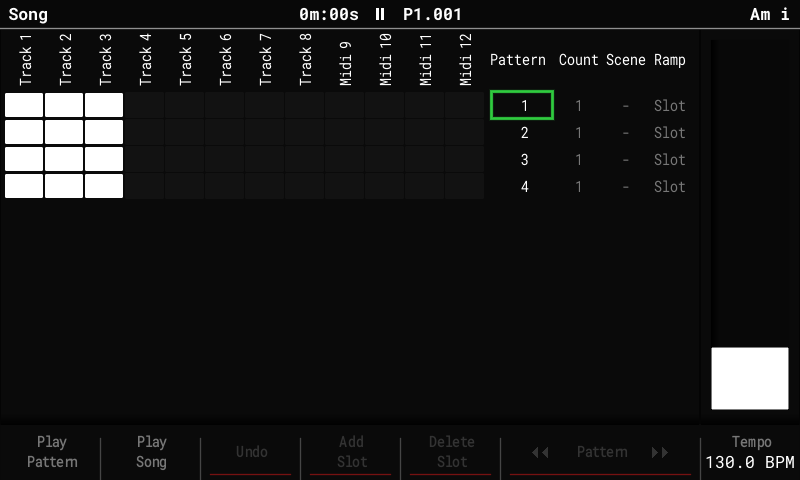
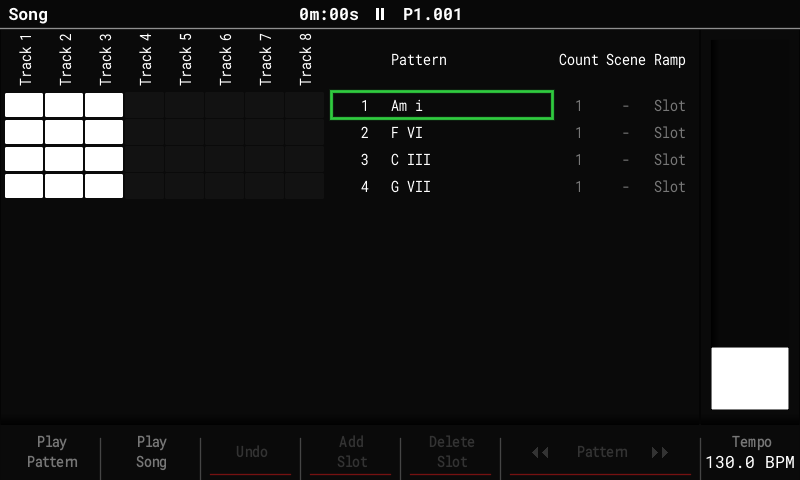
Song: 8-track grid pages, pattern names in the list (#121)
The grid shows tracks 1-8 or 9-16 (stock 1.9.x: 12), so the Pattern list
has room for each pattern's name again and a progression reads as its
chords. Replaces the cursor pattern's name in the title bar.

diff --git a/src/core/ui/screen_song.cpp b/src/core/ui/screen_song.cpp
@@ -69,11 +69,13 @@ constexpr int kPitchX = 40;          // grid column pitch
 constexpr int kPitchY = 27;          // grid / list row pitch
 constexpr int kGridX = 5;            // dark tile box (5 + 40 c, 92 + 27 r, 39 x 26)
 constexpr int kGridY = 92;
-constexpr int kListNumX = 520;       // CMD_NUMBER at rightX - 178 (rightX 698)
-constexpr int kListX0 = 491, kListX1 = 688;   // selection outline centre lines
+// [I] The list starts where the 8-column grid ends (stock: 491, after 12):
+// number, then the pattern name, clipped before Count.
+constexpr int kListX0 = 331, kListX1 = 688;   // selection outline centre lines
+constexpr int kListNumX = kListX0 + 29;       // stock: 29 px into the outline
+constexpr int kListNameX = kListNumX + 30;    // room for "255"
 // [I] Count (Project::playlistCount), Scene (playlistScene) and Ramp
-// (playlistRamp) columns after the pattern numbers; the pattern names no
-// longer fit in the list.
+// (playlistRamp) columns after the pattern names.
 constexpr int kCountX0 = 556;        // Count cell outline left (right: kSceneX0 - 4)
 constexpr int kCountX = 577;         // Count text centre
 constexpr int kSceneX0 = 602;        // Scene cell outline left (right: kRampX0 - 4)
@@ -857,11 +859,7 @@ void SongScreen::draw(Gfx& g) {
         drawProgressions(g);
         return;
     }
-    // [I] #121 the cursor slot's pattern name ("Am i"), before EDIT.
-    const char* nm = a.names.get(a.project.playlist[cursor]);
-    char right[PatternNames::kMaxLen + 8];
-    std::snprintf(right, sizeof(right), "%s%s%s", nm, nm[0] && edit ? "   " : "", edit ? "EDIT" : "");
-    ui_.drawTitle(g, "Song", right[0] ? right : nullptr);
+    ui_.drawTitle(g, "Song", edit ? "EDIT" : nullptr);
     const int n = length();
     gListTop = wg::listFollow(cursor, n, kRows, gListTop);
     const int first = gListTop;
@@ -875,8 +873,8 @@ void SongScreen::draw(Gfx& g) {
     // [8] empty tile 121212, [9] selection 30cb3f.
     // Rotated column headers (style bit7, font 1).
     const uint32_t white = th.slot(slot::kSongList);
-    const int ft = firstTrack;   // first shown track: 0 or 4 (12-column window)
-    // All 2 x 12 header runs in one turned-text batch (RAM_DL).
+    const int ft = firstTrack;   // first shown track: 0 or 8 (8-column pages)
+    // All 2 x 8 header runs in one turned-text batch (RAM_DL).
     Gfx::RotatedText heads[2 * kGridCols];
     char nums[kGridCols][24];
     for (int c = 0; c < kGridCols; ++c) {
@@ -957,7 +955,7 @@ void SongScreen::draw(Gfx& g) {
     }
 
     // Pattern list: caption, numbers (names after them), selection outline.
-    g.text(516, 59, kFont1, white, "Pattern", IDisplay::kOptCenter);   // [I] over the numbers (stock 565)
+    g.text(kListNameX, 59, kFont1, white, "Pattern", IDisplay::kOptCenterY);   // [I] over the names (stock 565)
     g.text(kCountX, 59, kFont1, white, "Count", IDisplay::kOptCenter);
     g.text(kSceneX, 59, kFont1, white, "Scene", IDisplay::kOptCenter);
     g.text(kRampX, 59, kFont1, white, "Ramp", IDisplay::kOptCenter);
@@ -969,6 +967,14 @@ void SongScreen::draw(Gfx& g) {
         if (slotI == playing)       // ▶ while the song plays, the loop arrow while Shift+Play loops it
             g.icon(kListNumX - 26, cy - 6, loopInSong_ ? kIconLoop : kIconPlay, white);
         g.textf(kListNumX, cy, kFont1, c, IDisplay::kOptCenterY, "%d", num);
+        // [I] #121 the pattern's name ("Am i"), as stock, clipped before Count.
+        if (const char* nm = a.names.get(num); nm[0]) {
+            const int w = kCountX0 - 6 - kListNameX;
+            const bool clipIt = g.textWidth(kFont1, nm) > w;
+            if (clipIt) g.clip(kListNameX, cy - 13, w, 26);
+            g.text(kListNameX, cy, kFont1, c, nm, IDisplay::kOptCenterY);
+            if (clipIt) g.noClip();
+        }
         // [I] Count: the playing slot shows its pass; once is drawn dim.
         const int cnt = a.project.slotCount(slotI);
         if (slotI == playing && cnt > 1)

diff --git a/tests/song_mixer_test.cpp b/tests/song_mixer_test.cpp
@@ -226,14 +226,14 @@ static std::vector<std::string> songHeaders(Harness& h) {
     for (auto& l : h.disp.last) {
         int x = 0, y = 0;
         char txt[64] = {};
-        if (std::sscanf(l.c_str(), "TEXT %d %d f%*u o%*u \"%63[^\"]\"", &x, &y, txt) == 3 && y < 92 && x < 490)
+        if (std::sscanf(l.c_str(), "TEXT %d %d f%*u o%*u \"%63[^\"]\"", &x, &y, txt) == 3 && y < 92 && x < 331)
             out.push_back(txt);
     }
     return out;
 }
 
-// 2.x (docs/M1_PLAN.md §4, spec gap 4): 12-column window over 16 tracks;
-// the first shown track is 0 or 4 and follows the grid cursor.
+// 2.x (docs/M1_PLAN.md §4, spec gap 4): the grid window over 16 tracks
+// follows the grid cursor. [I] 8 columns: pages 1-8 and 9-16.
 TEST(song_grid_window_follows_cursor_over_16_tracks) {
     Harness h;
     App& a = *h.app;
@@ -243,42 +243,42 @@ TEST(song_grid_window_follows_cursor_over_16_tracks) {
     a.ui.dirty();
     h.run(40);
     std::vector<std::string> hd = songHeaders(h);
-    CHECK(std::find(hd.begin(), hd.end(), "12") != hd.end());
-    CHECK(std::find(hd.begin(), hd.end(), "13") == hd.end());
+    CHECK(std::find(hd.begin(), hd.end(), "8") != hd.end());
+    CHECK(std::find(hd.begin(), hd.end(), "9") == hd.end());
     h.tap(btn::Rec);
-    h.tap(btn::Left);   // list -> grid: rightmost shown column (stock: track 12)
+    h.tap(btn::Left);   // list -> grid: rightmost shown column, track 8
     CHECK_EQ(s.focus, 0);
-    CHECK_EQ(s.selTrack0, 11);
+    CHECK_EQ(s.selTrack0, 7);
     CHECK_EQ(s.firstTrack, 0);
     h.tap(btn::Right);
-    CHECK_EQ(s.selTrack0, 12);
-    CHECK_EQ(s.firstTrack, 4);
+    CHECK_EQ(s.selTrack0, 8);
+    CHECK_EQ(s.firstTrack, 8);
     a.ui.dirty();
     h.run(40);
     hd = songHeaders(h);
     CHECK(std::find(hd.begin(), hd.end(), "16") != hd.end());
     CHECK(std::find(hd.begin(), hd.end(), "Midi") != hd.end());
-    CHECK(std::find(hd.begin(), hd.end(), "4") == hd.end());
-    CHECK(std::find(hd.begin(), hd.end(), "5") != hd.end());
-    for (int i = 0; i < 3; ++i) h.tap(btn::Right);
+    CHECK(std::find(hd.begin(), hd.end(), "8") == hd.end());
+    CHECK(std::find(hd.begin(), hd.end(), "9") != hd.end());
+    for (int i = 0; i < 7; ++i) h.tap(btn::Right);
     CHECK_EQ(s.selTrack0, 15);
     h.tap(btn::Right);  // past track 16: the list
     CHECK_EQ(s.focus, 1);
     h.tap(btn::Left);   // back on the rightmost shown column, track 16
     CHECK_EQ(s.selTrack0, 15);
-    CHECK_EQ(s.firstTrack, 4);
-    for (int i = 0; i < 11; ++i) h.tap(btn::Left);
-    CHECK_EQ(s.selTrack0, 4);
-    CHECK_EQ(s.firstTrack, 4);
+    CHECK_EQ(s.firstTrack, 8);
+    for (int i = 0; i < 7; ++i) h.tap(btn::Left);
+    CHECK_EQ(s.selTrack0, 8);
+    CHECK_EQ(s.firstTrack, 8);
     h.tap(btn::Left);
-    CHECK_EQ(s.selTrack0, 3);
+    CHECK_EQ(s.selTrack0, 7);
     CHECK_EQ(s.firstTrack, 0);
     // Shift+Right extends to 16 tracks; the window follows the moving edge.
     h.down(btn::Shift);
     for (int i = 0; i < 20; ++i) h.tap(btn::Right);
     h.up(btn::Shift);
-    CHECK_EQ(s.selTracks, kTrackCount - 3);
-    CHECK_EQ(s.firstTrack, 4);
+    CHECK_EQ(s.selTracks, kTrackCount - 7);
+    CHECK_EQ(s.firstTrack, 8);
 }
 
 // Copy / paste / delete of track ranges reach tracks 13..16 (ext-track pool).
@@ -297,8 +297,8 @@ TEST(song_copy_delete_over_16_tracks) {
     h.tap(btn::Rec);
     h.tap(btn::Up);
     h.tap(btn::Up);
-    h.tap(btn::Left);   // grid, slot 0, track 12
-    h.tap(btn::Right);  // track 13
+    h.tap(btn::Left);   // grid, slot 0, track 8
+    for (int i = 0; i < 5; ++i) h.tap(btn::Right);   // track 13
     CHECK_EQ(s.selTrack0, 12);
     h.down(btn::Shift);
     for (int i = 0; i < 3; ++i) h.tap(btn::Right);

diff --git a/tests/manual_ui_test.cpp b/tests/manual_ui_test.cpp
@@ -488,7 +488,7 @@ int songProgressY(Harness& h) {
     for (size_t i = 0; i + 1 < h.disp.last.size(); ++i) {
         int x0, y0, x1, y1;
         if (std::sscanf(h.disp.last[i].c_str(), "VERTEX %d %d", &x0, &y0) == 2 &&
-            std::sscanf(h.disp.last[i + 1].c_str(), "VERTEX %d %d", &x1, &y1) == 2 && x0 == 5 && x1 > 400 &&
+            std::sscanf(h.disp.last[i + 1].c_str(), "VERTEX %d %d", &x1, &y1) == 2 && x0 == 5 && x1 > 300 &&
             y1 - y0 == 1 && y0 >= 92 && y0 <= 118)
             last = y0;
     }
@@ -518,14 +518,14 @@ TEST(song_progress_line_follows_the_playing_pattern) {
     const int y2 = songProgressY(h);
     CHECK(y1 >= 92);
     CHECK(y2 > y1 + 10);
-    // The line stays inside the 12-column grid (device photo: on 2.x it ran
-    // through the Pattern list), i.e. it ends before the list at x 491.
+    // The line stays inside the grid (device photo: on 2.x it ran
+    // through the Pattern list), i.e. it ends before the list ([I] x 331).
     for (size_t i = 0; i + 1 < h.disp.last.size(); ++i) {
         int x0, yA, x1, yB;
         if (std::sscanf(h.disp.last[i].c_str(), "VERTEX %d %d", &x0, &yA) == 2 &&
             std::sscanf(h.disp.last[i + 1].c_str(), "VERTEX %d %d", &x1, &yB) == 2 && x0 == 5 && yB - yA == 1 &&
             yA == y2)
-            CHECK(x1 < 491);
+            CHECK(x1 < 331);
     }
     h.tap(btn::F2);   // Stop
     h.run(60);

diff --git a/src/core/ui/screens.h b/src/core/ui/screens.h
@@ -219,9 +219,11 @@ public:
     // [I] The ramp d encoder detents after `ramp` for a slot of `count` passes.
     static int rampAfter(int ramp, int count, int d);
     int selRow0 = 0, selRows = 1, selTrack0 = 0, selTracks = 1;
-    // 2.x (docs/M1_PLAN.md §4, spec gap 4): the grid shows 12 of the 16
-    // tracks; the first shown track is 0 or 4 and follows the grid cursor.
-    static constexpr int kGridCols = 12;
+    // 2.x (docs/M1_PLAN.md §4, spec gap 4): the grid shows part of the 16
+    // tracks and follows the grid cursor. [I] 8 columns (stock 1.9.x: 12), so
+    // the pages are the sample tracks 1-8 and the MIDI tracks 9-16 and the
+    // list has room for the pattern names.
+    static constexpr int kGridCols = 8;
     int firstTrack = 0;
     int tapCount = 0;
     uint32_t tapT0 = 0;

diff --git a/docs/guide/song-mode.md b/docs/guide/song-mode.md
@@ -7,6 +7,10 @@ patterns added in the order of a chord progression.
 
 ![The Song list with Count, Scene and Ramp columns](../images/song.png)
 
+The track grid shows 8 tracks at a time: tracks 1-8 (the sample tracks), and tracks 9-16
+(the MIDI tracks) once the grid cursor moves past track 8. The space this frees shows each
+pattern's name next to its number, as on stock.
+
 The Song list has four columns: **Pattern**, **Count**, **Scene** and **Ramp**. In edit
 mode (**Rec**), **Right** moves from the list into the columns, **Left** back. **Delete**
 resets the selected value.
@@ -65,10 +69,9 @@ or change the voicing.
 
 ![The Progression list on a new project](../images/song-progressions.png)
 
-![The four slots it adds, with the cursor pattern's name in the title](../images/song-progression-added.png)
+![The four slots it adds, each pattern named after its chord](../images/song-progression-added.png)
 
-- The Song title bar shows the name of the pattern under the cursor, so you can read the
-  chords as you move down the list.
+- The Pattern list shows each pattern's name, so the song reads as its chords.
 - The list shows each progression's chords in the project key, with its numbers (or its
   title) on the right, under a heading per file. **Up / Down** or the encoder pick one,
   **F8** or **Insert** adds it, **F7** or **Left** closes the list.
